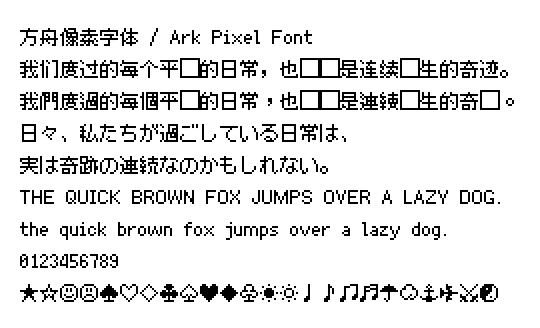
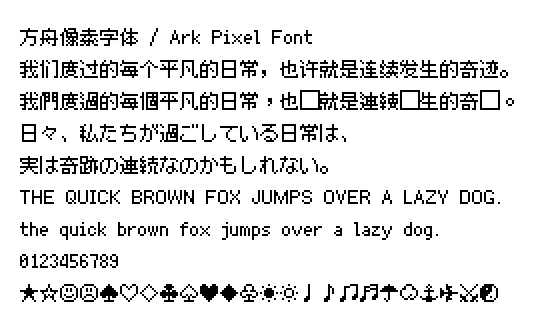
更新字符统计

diff --git a/docs/font-info-10px-monospaced.md b/docs/font-info-10px-monospaced.md
@@ -4,12 +4,12 @@
 
 | 属性 | 值 |
 |---|---|
-| 版本号 | 2023.08.24 |
-| 字符总数 | 2568 |
+| 版本号 | 2023.10.18 |
+| 字符总数 | 2573 |
 
 ## Unicode 字符分布
 
-Unicode 版本：15.0.0
+Unicode 版本：15.1.0
 
 | 区块范围 | 区块名称 | 区块含义 | 完成数 | 缺失数 | 进度 |
 |---|---|---|---:|---:|---:|
@@ -34,7 +34,7 @@ Unicode 版本：15.0.0
 | 3100 ~ 312F | Bopomofo | 注音字母 | 43 / 43 | 0 | 100.00% 🚩 |
 | 3200 ~ 32FF | Enclosed CJK Letters and Months | 包围中日韩字母与月份 | 40 / 255 | 215 | 15.69% 🚧 |
 | 3300 ~ 33FF | CJK Compatibility | 中日韩兼容 | 60 / 256 | 196 | 23.44% 🚧 |
-| 4E00 ~ 9FFF | CJK Unified Ideographs | 中日韩统一表意文字 | 891 / 20992 | 20101 | 4.24% 🚧 |
+| 4E00 ~ 9FFF | CJK Unified Ideographs | 中日韩统一表意文字 | 896 / 20992 | 20096 | 4.27% 🚧 |
 | FE10 ~ FE1F | Vertical Forms | 竖排形式 | 10 / 10 | 0 | 100.00% 🚩 |
 | FE30 ~ FE4F | CJK Compatibility Forms | 中日韩兼容形式 | 32 / 32 | 0 | 100.00% 🚩 |
 | FF00 ~ FFEF | Halfwidth and Fullwidth Forms | 半宽与全宽形式 | 173 / 225 | 52 | 76.89% 🚧 |
@@ -46,10 +46,10 @@ Unicode 版本：15.0.0
 
 | 区块名称 | 完成数 | 缺失数 | 进度 |
 |---|---:|---:|---:|
-| 一级汉字 | 542 / 3755 | 3213 | 14.43% 🚧 |
+| 一级汉字 | 546 / 3755 | 3209 | 14.54% 🚧 |
 | 二级汉字 | 73 / 3008 | 2935 | 2.43% 🚧 |
 | 其他字符 | 532 / 682 | 150 | 78.01% 🚧 |
-| 总计 | 1147 / 7445 | 6298 | 15.41% 🚧 |
+| 总计 | 1151 / 7445 | 6294 | 15.46% 🚧 |
 
 ## Big5 字符分布
 
@@ -57,10 +57,10 @@ Unicode 版本：15.0.0
 
 | 区块名称 | 完成数 | 缺失数 | 进度 |
 |---|---:|---:|---:|
-| 常用汉字 | 507 / 5401 | 4894 | 9.39% 🚧 |
+| 常用汉字 | 510 / 5401 | 4891 | 9.44% 🚧 |
 | 次常用汉字 | 104 / 7652 | 7548 | 1.36% 🚧 |
 | 其他字符 | 283 / 408 | 125 | 69.36% 🚧 |
-| 总计 | 894 / 13461 | 12567 | 6.64% 🚧 |
+| 总计 | 897 / 13461 | 12564 | 6.66% 🚧 |
 
 ## Shift-JIS 字符分布
 
@@ -71,8 +71,8 @@ Unicode 版本：15.0.0
 | 单字节-ASCII可打印字符 | 95 / 95 | 0 | 100.00% 🚩 |
 | 单字节-半角片假名 | 63 / 63 | 0 | 100.00% 🚩 |
 | 双字节-其他字符 | 373 / 524 | 151 | 71.18% 🚧 |
-| 双字节-汉字 | 578 / 6355 | 5777 | 9.10% 🚧 |
-| 总计 | 1109 / 7037 | 5928 | 15.76% 🚧 |
+| 双字节-汉字 | 581 / 6355 | 5774 | 9.14% 🚧 |
+| 总计 | 1112 / 7037 | 5925 | 15.80% 🚧 |
 
 ## KS-X-1001 字符分布
 
@@ -81,6 +81,6 @@ Unicode 版本：15.0.0
 | 区块名称 | 完成数 | 缺失数 | 进度 |
 |---|---:|---:|---:|
 | 谚文音节 | 0 / 2350 | 2350 | 0.00% 🚧 |
-| 汉字 | 481 / 4888 | 4407 | 9.84% 🚧 |
+| 汉字 | 484 / 4888 | 4404 | 9.90% 🚧 |
 | 其他字符 | 569 / 988 | 419 | 57.59% 🚧 |
-| 总计 | 1050 / 8226 | 7176 | 12.76% 🚧 |
+| 总计 | 1053 / 8226 | 7173 | 12.80% 🚧 |

diff --git a/docs/font-info-10px-proportional.md b/docs/font-info-10px-proportional.md
@@ -4,12 +4,12 @@
 
 | 属性 | 值 |
 |---|---|
-| 版本号 | 2023.08.24 |
-| 字符总数 | 2717 |
+| 版本号 | 2023.10.18 |
+| 字符总数 | 2722 |
 
 ## Unicode 字符分布
 
-Unicode 版本：15.0.0
+Unicode 版本：15.1.0
 
 | 区块范围 | 区块名称 | 区块含义 | 完成数 | 缺失数 | 进度 |
 |---|---|---|---:|---:|---:|
@@ -36,7 +36,7 @@ Unicode 版本：15.0.0
 | 3100 ~ 312F | Bopomofo | 注音字母 | 43 / 43 | 0 | 100.00% 🚩 |
 | 3200 ~ 32FF | Enclosed CJK Letters and Months | 包围中日韩字母与月份 | 40 / 255 | 215 | 15.69% 🚧 |
 | 3300 ~ 33FF | CJK Compatibility | 中日韩兼容 | 60 / 256 | 196 | 23.44% 🚧 |
-| 4E00 ~ 9FFF | CJK Unified Ideographs | 中日韩统一表意文字 | 891 / 20992 | 20101 | 4.24% 🚧 |
+| 4E00 ~ 9FFF | CJK Unified Ideographs | 中日韩统一表意文字 | 896 / 20992 | 20096 | 4.27% 🚧 |
 | FE10 ~ FE1F | Vertical Forms | 竖排形式 | 10 / 10 | 0 | 100.00% 🚩 |
 | FE30 ~ FE4F | CJK Compatibility Forms | 中日韩兼容形式 | 32 / 32 | 0 | 100.00% 🚩 |
 | FF00 ~ FFEF | Halfwidth and Fullwidth Forms | 半宽与全宽形式 | 173 / 225 | 52 | 76.89% 🚧 |
@@ -48,10 +48,10 @@ Unicode 版本：15.0.0
 
 | 区块名称 | 完成数 | 缺失数 | 进度 |
 |---|---:|---:|---:|
-| 一级汉字 | 542 / 3755 | 3213 | 14.43% 🚧 |
+| 一级汉字 | 546 / 3755 | 3209 | 14.54% 🚧 |
 | 二级汉字 | 73 / 3008 | 2935 | 2.43% 🚧 |
 | 其他字符 | 646 / 682 | 36 | 94.72% 🚧 |
-| 总计 | 1261 / 7445 | 6184 | 16.94% 🚧 |
+| 总计 | 1265 / 7445 | 6180 | 16.99% 🚧 |
 
 ## Big5 字符分布
 
@@ -59,10 +59,10 @@ Unicode 版本：15.0.0
 
 | 区块名称 | 完成数 | 缺失数 | 进度 |
 |---|---:|---:|---:|
-| 常用汉字 | 507 / 5401 | 4894 | 9.39% 🚧 |
+| 常用汉字 | 510 / 5401 | 4891 | 9.44% 🚧 |
 | 次常用汉字 | 104 / 7652 | 7548 | 1.36% 🚧 |
 | 其他字符 | 331 / 408 | 77 | 81.13% 🚧 |
-| 总计 | 942 / 13461 | 12519 | 7.00% 🚧 |
+| 总计 | 945 / 13461 | 12516 | 7.02% 🚧 |
 
 ## Shift-JIS 字符分布
 
@@ -73,8 +73,8 @@ Unicode 版本：15.0.0
 | 单字节-ASCII可打印字符 | 95 / 95 | 0 | 100.00% 🚩 |
 | 单字节-半角片假名 | 63 / 63 | 0 | 100.00% 🚩 |
 | 双字节-其他字符 | 487 / 524 | 37 | 92.94% 🚧 |
-| 双字节-汉字 | 578 / 6355 | 5777 | 9.10% 🚧 |
-| 总计 | 1223 / 7037 | 5814 | 17.38% 🚧 |
+| 双字节-汉字 | 581 / 6355 | 5774 | 9.14% 🚧 |
+| 总计 | 1226 / 7037 | 5811 | 17.42% 🚧 |
 
 ## KS-X-1001 字符分布
 
@@ -83,6 +83,6 @@ Unicode 版本：15.0.0
 | 区块名称 | 完成数 | 缺失数 | 进度 |
 |---|---:|---:|---:|
 | 谚文音节 | 0 / 2350 | 2350 | 0.00% 🚧 |
-| 汉字 | 481 / 4888 | 4407 | 9.84% 🚧 |
+| 汉字 | 484 / 4888 | 4404 | 9.90% 🚧 |
 | 其他字符 | 683 / 988 | 305 | 69.13% 🚧 |
-| 总计 | 1164 / 8226 | 7062 | 14.15% 🚧 |
+| 总计 | 1167 / 8226 | 7059 | 14.19% 🚧 |

diff --git a/docs/font-info-12px-monospaced.md b/docs/font-info-12px-monospaced.md
@@ -4,12 +4,12 @@
 
 | 属性 | 值 |
 |---|---|
-| 版本号 | 2023.08.24 |
+| 版本号 | 2023.10.18 |
 | 字符总数 | 15998 |
 
 ## Unicode 字符分布
 
-Unicode 版本：15.0.0
+Unicode 版本：15.1.0
 
 | 区块范围 | 区块名称 | 区块含义 | 完成数 | 缺失数 | 进度 |
 |---|---|---|---:|---:|---:|

diff --git a/docs/font-info-12px-proportional.md b/docs/font-info-12px-proportional.md
@@ -4,12 +4,12 @@
 
 | 属性 | 值 |
 |---|---|
-| 版本号 | 2023.08.24 |
+| 版本号 | 2023.10.18 |
 | 字符总数 | 15998 |
 
 ## Unicode 字符分布
 
-Unicode 版本：15.0.0
+Unicode 版本：15.1.0
 
 | 区块范围 | 区块名称 | 区块含义 | 完成数 | 缺失数 | 进度 |
 |---|---|---|---:|---:|---:|

diff --git a/docs/font-info-16px-monospaced.md b/docs/font-info-16px-monospaced.md
@@ -4,12 +4,12 @@
 
 | 属性 | 值 |
 |---|---|
-| 版本号 | 2023.08.24 |
+| 版本号 | 2023.10.18 |
 | 字符总数 | 1804 |
 
 ## Unicode 字符分布
 
-Unicode 版本：15.0.0
+Unicode 版本：15.1.0
 
 | 区块范围 | 区块名称 | 区块含义 | 完成数 | 缺失数 | 进度 |
 |---|---|---|---:|---:|---:|

diff --git a/docs/font-info-16px-proportional.md b/docs/font-info-16px-proportional.md
@@ -4,12 +4,12 @@
 
 | 属性 | 值 |
 |---|---|
-| 版本号 | 2023.08.24 |
+| 版本号 | 2023.10.18 |
 | 字符总数 | 1804 |
 
 ## Unicode 字符分布
 
-Unicode 版本：15.0.0
+Unicode 版本：15.1.0
 
 | 区块范围 | 区块名称 | 区块含义 | 完成数 | 缺失数 | 进度 |
 |---|---|---|---:|---:|---:|
